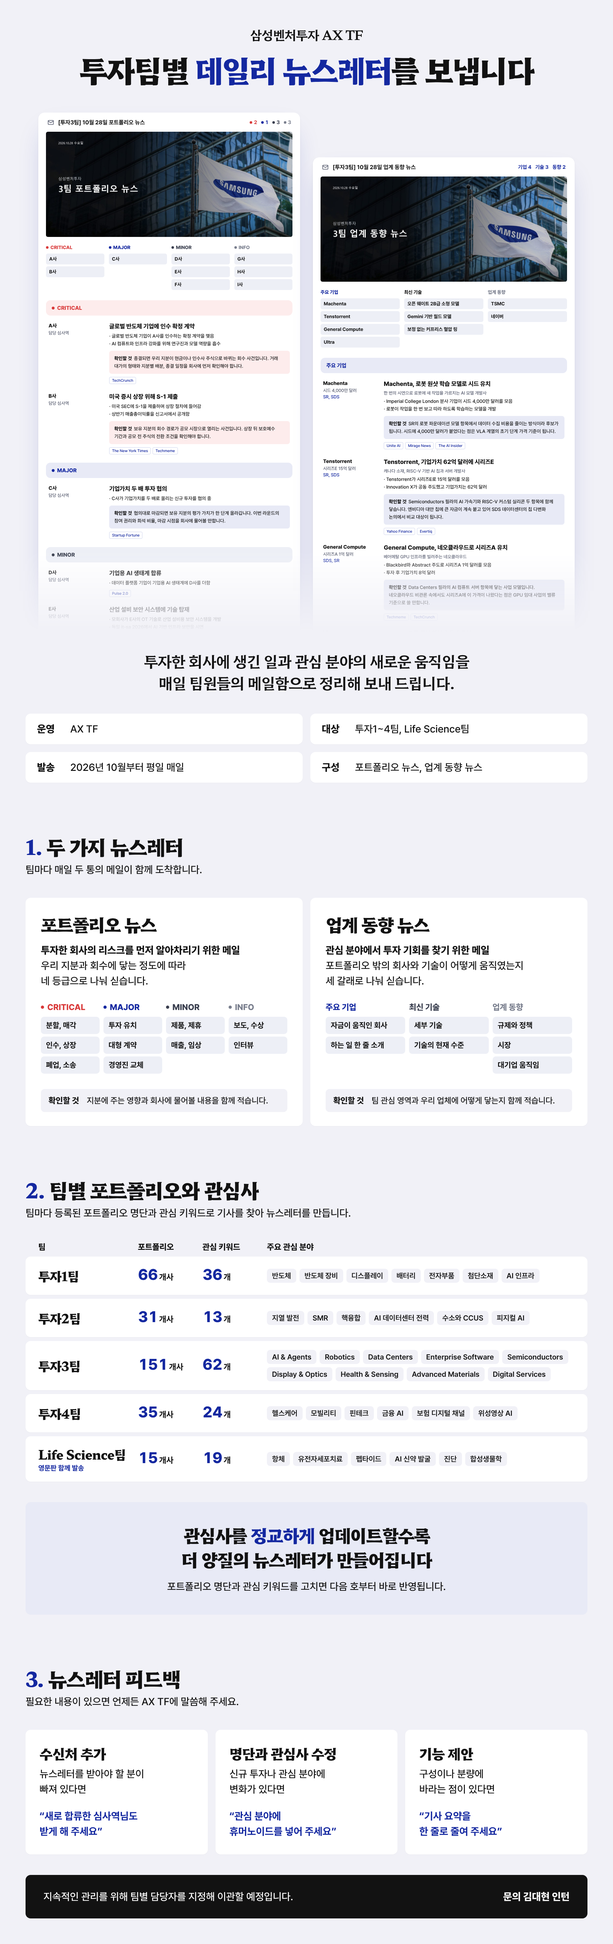
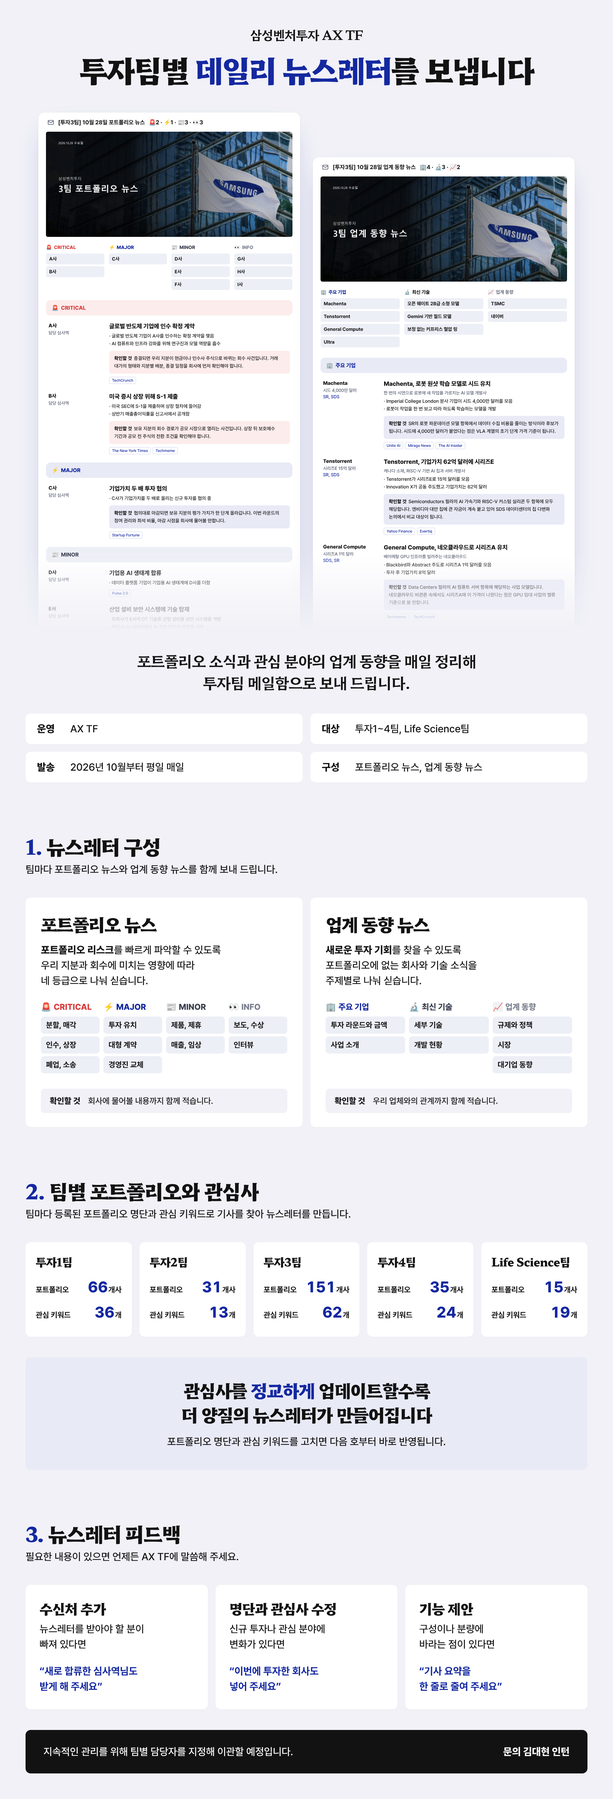
newsletter-notice: 등급·절 아이콘을 메일 제목의 이모지로 바꾸고 문구 정리
- 메일 제목과 차례, 밴드, 1장 타일에 🚨⚡📰👀 와 🏢🔬📈 를 그대로 쓴다
- 팀별 관심 분야 목록과 영문판 표기를 빼고 팀별 수치만 남긴다
- 닿다, 세 갈래, 움직임 같은 표현을 걷어내고 소제목을 개수 없는 명사로 바꾼다

Claude-Session: https://claude.ai/code/session_01YSjo2N4gvMJ1LtkTYgDKfT

diff --git a/ax-tf/newsletter-notice/notice.html b/ax-tf/newsletter-notice/notice.html
@@ -11,7 +11,8 @@
 @font-face{font-family:Pretendard;font-weight:800;src:url(../skill-contest-poster/fonts/Pretendard-ExtraBold.woff2) format('woff2')}
 
 /* 공모전 포스터와 같은 토큰. 1920 폭 세로 공지 한 장
-   히어로(메일 두 통) → 1. 두 가지 뉴스레터 → 2. 팀별 포트폴리오와 관심사 → 3. 뉴스레터 피드백 */
+   히어로(메일 두 통과 개요) → 1. 뉴스레터 구성 → 2. 팀별 포트폴리오와 관심사 → 3. 뉴스레터 피드백
+   등급과 절 아이콘은 실제 메일 제목에 쓰는 이모지를 그대로 쓴다 */
 :root {
   --paper: #F1F1F7; --paper-2: #E4E5EE; --paper-3: #D6D8E4;
   --ink: #121212; --mute: #565B6E;
@@ -28,7 +29,7 @@
   --major: #1428A0; --major-soft: #E8EAF6;
   --minor: #3A3F4F; --minor-soft: #EDEFF6;
   --info: #7A7F8E; --info-soft: #F4F5F9;
-  --font: Pretendard, "Apple SD Gothic Neo", "Malgun Gothic", sans-serif;
+  --font: Pretendard, "Apple SD Gothic Neo", "Malgun Gothic", "Segoe UI Emoji", "Noto Color Emoji", sans-serif;
   --display: 'Hahmlet Variable', var(--font);
 }
 * { box-sizing: border-box; margin: 0; padding: 0; }
@@ -36,6 +37,7 @@ body { background: #CFD1DB; font-family: var(--font); color: var(--ink); -webkit
   font-size: var(--t-body); line-height: var(--l-body); word-break: keep-all; }
 b { font-weight: 800; }
 svg { display: block; }
+.em { font-family: "Segoe UI Emoji", "Noto Color Emoji", "Apple Color Emoji", sans-serif; font-weight: 400; }
 #poster { width: 1920px; margin: 0 auto; background: var(--paper); }
 .s { padding: var(--pad); display: flex; flex-direction: column; gap: var(--gap-lg); }
 .head { display: flex; flex-direction: column; gap: var(--gap-xs); }
@@ -63,20 +65,15 @@ svg { display: block; }
 
 /* ---------- 메일 화면 재현 ---------- */
 .mail { background: var(--white); border-radius: 20px; box-shadow: 0 40px 80px -30px rgba(20,40,160,.28), 0 2px 6px rgba(18,18,18,.06); padding: 18px 24px 32px; font-size: 19px; line-height: 28px; }
-.mail .subj { display: flex; align-items: center; gap: 12px; padding: 0 4px 16px; font-size: 18px; line-height: 26px; font-weight: 700; }
+.mail .subj { display: flex; align-items: center; gap: 12px; padding: 0 4px 16px; font-size: 18px; line-height: 26px; font-weight: 700; white-space: nowrap; }
 .mail .subj svg { width: 22px; height: 22px; color: var(--mute); flex: none; }
-.mail .subj .cnt { margin-left: auto; display: flex; gap: 12px; font-size: 16px; font-weight: 700; font-variant-numeric: tabular-nums; }
-.mail .subj .cnt span { display: flex; align-items: center; gap: 5px; }
-.mail .subj .cnt i { width: 8px; height: 8px; border-radius: 50%; background: currentColor; }
 .mail .mh { display: block; width: 100%; border-radius: 6px; }
 .mail .toc { display: grid; gap: 14px; margin: 22px 0 26px; }
 .mail .toc.g4 { grid-template-columns: repeat(4, 1fr); }
 .mail .toc.g3 { grid-template-columns: repeat(3, 1fr); }
 .mail .toc .tl { font-size: 15px; line-height: 22px; font-weight: 800; margin-bottom: 8px; display: flex; align-items: center; gap: 6px; }
-.mail .toc .tl i { width: 8px; height: 8px; border-radius: 50%; background: currentColor; }
 .mail .toc .ti { font-size: 15px; line-height: 22px; font-weight: 700; border-radius: 6px; padding: 6px 10px; margin-bottom: 6px; background: var(--minor-soft); white-space: nowrap; overflow: hidden; text-overflow: ellipsis; }
 .mail .band { border-radius: 14px; padding: 12px 18px; font-size: 17px; line-height: 24px; font-weight: 800; margin: 6px 0 20px; display: flex; align-items: center; gap: 8px; }
-.mail .band i { width: 9px; height: 9px; border-radius: 50%; background: currentColor; }
 .mail .item { display: grid; grid-template-columns: 170px 1fr; column-gap: 20px; margin: 0 8px 26px; }
 .mail .item .who b { display: block; font-size: 16px; line-height: 24px; }
 .mail .item .who span { display: block; font-size: 14px; line-height: 20px; color: var(--mute); }
@@ -94,33 +91,29 @@ svg { display: block; }
 .c-minor { color: var(--minor); } .bg-minor { background: var(--minor-soft); }
 .c-info { color: var(--info); } .bg-info { background: var(--info-soft); }
 
-/* ---------- 1. 두 가지 뉴스레터 ---------- */
+/* ---------- 1. 뉴스레터 구성 ---------- */
 /* 카드 안의 타일은 메일 차례와 같은 모양이다. 읽는 사람이 메일에서 본 것을 그대로 알아보게 한다 */
 .kinds { display: grid; grid-template-columns: 1fr 1fr; gap: var(--gap-sm); }
 .kind { background: var(--white); border-radius: var(--r-card); box-shadow: var(--shadow); padding: 48px 48px 44px; display: flex; flex-direction: column; }
 .kind .kt { font-family: var(--display); font-size: 56px; line-height: 68px; font-weight: 800; letter-spacing: -.04em; }
-.kind .kp { margin-top: var(--gap-sm); font-size: var(--t-body); line-height: var(--l-body); font-weight: 800; }
-.kind .kd { font-size: var(--t-body); line-height: var(--l-body); }
+.kind .kd { margin-top: var(--gap-sm); font-size: var(--t-body); line-height: var(--l-body); }
 .kind .tiles { display: grid; gap: var(--gap-xs); margin: var(--gap) 0; align-items: start; }
 .kind .tiles.g4 { grid-template-columns: repeat(4, 1fr); }
 .kind .tiles.g3 { grid-template-columns: repeat(3, 1fr); }
-.kind .tiles .tl { font-size: var(--t-cap); line-height: var(--l-cap); font-weight: 800; margin-bottom: var(--gap-xs); display: flex; align-items: center; gap: 10px; white-space: nowrap; }
-.kind .tiles .tl i { width: 10px; height: 10px; border-radius: 50%; background: currentColor; flex: none; }
+.kind .tiles .tl { font-size: var(--t-cap); line-height: var(--l-cap); font-weight: 800; margin-bottom: var(--gap-xs); display: flex; align-items: center; gap: 8px; white-space: nowrap; }
 .kind .tiles .ti { font-size: 24px; line-height: 34px; font-weight: 700; border-radius: 10px; padding: 10px 16px; margin-bottom: 8px; background: var(--minor-soft); }
-.kind .chk { margin-top: auto; display: flex; align-items: center; gap: var(--gap-sm); border-radius: var(--r-ctl); background: var(--paper); padding: 18px 24px; font-size: var(--t-cap); line-height: var(--l-cap); }
+.kind .chk { margin-top: auto; display: flex; align-items: baseline; gap: var(--gap-sm); border-radius: var(--r-ctl); background: var(--paper); padding: 20px 28px; font-size: var(--t-cap); line-height: var(--l-cap); }
 .kind .chk b { flex: none; }
 
 /* ---------- 2. 팀별 포트폴리오와 관심사 ---------- */
-.teams { display: flex; flex-direction: column; gap: var(--gap-xs); }
-.teams .tr { display: grid; grid-template-columns: 280px 170px 170px 1fr; column-gap: 32px; align-items: center; }
-.teams .th { padding: 0 40px; font-size: var(--t-cap); line-height: var(--l-cap); font-weight: 800; }
-.teams .row { background: var(--white); border-radius: var(--r-card); box-shadow: var(--shadow); padding: 28px 40px; }
-.teams .tn { font-family: var(--display); font-size: var(--t-h2); line-height: var(--l-h2); font-weight: 800; letter-spacing: -.03em; white-space: nowrap; }
-.teams .tn small { display: block; font-family: var(--font); font-size: 22px; line-height: 30px; font-weight: 700; color: var(--acc); letter-spacing: 0; }
-.teams .num { font-size: 48px; line-height: 56px; font-weight: 800; color: var(--acc); font-variant-numeric: tabular-nums; letter-spacing: -.02em; }
-.teams .num small { font-size: var(--t-cap); color: var(--ink); font-weight: 700; margin-left: 4px; letter-spacing: 0; }
-.teams .chips { display: flex; flex-wrap: wrap; gap: 10px; }
-.teams .chips span { font-size: 23px; line-height: 32px; font-weight: 600; background: var(--paper); border-radius: 10px; padding: 6px 16px; }
+.teams { display: grid; grid-template-columns: repeat(5, 1fr); gap: var(--gap-sm); }
+.teams > div { background: var(--white); border-radius: var(--r-card); box-shadow: var(--shadow); padding: 36px 32px 40px; display: flex; flex-direction: column; gap: 28px; }
+.teams .tn { font-family: var(--display); font-size: 36px; line-height: 48px; font-weight: 800; letter-spacing: -.03em; white-space: nowrap; }
+.teams .st { display: flex; flex-direction: column; gap: 14px; }
+.teams .st > div { display: flex; justify-content: space-between; align-items: baseline; }
+.teams .num { order: 2; font-size: 48px; line-height: 56px; font-weight: 800; color: var(--acc); font-variant-numeric: tabular-nums; letter-spacing: -.02em; white-space: nowrap; }
+.teams .num small { font-size: 24px; color: var(--ink); font-weight: 700; margin-left: 2px; letter-spacing: 0; }
+.teams .lb { order: 1; font-size: 24px; line-height: 34px; font-weight: 700; }
 .better { background: var(--acc-soft); border-radius: var(--r-card); padding: 64px 80px; text-align: center; display: flex; flex-direction: column; gap: var(--gap-sm); }
 .better .bt { font-family: var(--display); font-size: 56px; line-height: 76px; font-weight: 800; letter-spacing: -.04em; }
 .better .bt em { font-style: normal; color: var(--acc); }
@@ -148,16 +141,15 @@ svg { display: block; }
     </div>
     <div class="mails">
       <div class="mail m1">
-        <div class="subj"><svg><use href="#i-mail"/></svg>[투자3팀] 10월 28일 포트폴리오 뉴스
-          <span class="cnt"><span class="c-crit"><i></i>2</span><span class="c-major"><i></i>1</span><span class="c-minor"><i></i>3</span><span class="c-info"><i></i>3</span></span></div>
+        <div class="subj"><svg><use href="#i-mail"/></svg>[투자3팀] 10월 28일 포트폴리오 뉴스 <span><span class="em">🚨</span>2 · <span class="em">⚡</span>1 · <span class="em">📰</span>3 · <span class="em">👀</span>3</span></div>
         <img class="mh" src="header-portfolio.jpg" alt="">
         <div class="toc g4">
-          <div><div class="tl c-crit"><i></i>CRITICAL</div><div class="ti bg-crit">A사</div><div class="ti bg-crit">B사</div></div>
-          <div><div class="tl c-major"><i></i>MAJOR</div><div class="ti bg-major">C사</div></div>
-          <div><div class="tl c-minor"><i></i>MINOR</div><div class="ti">D사</div><div class="ti">E사</div><div class="ti">F사</div></div>
-          <div><div class="tl c-info"><i></i>INFO</div><div class="ti bg-info">G사</div><div class="ti bg-info">H사</div><div class="ti bg-info">I사</div></div>
+          <div><div class="tl c-crit"><span class="em">🚨</span>CRITICAL</div><div class="ti bg-crit">A사</div><div class="ti bg-crit">B사</div></div>
+          <div><div class="tl c-major"><span class="em">⚡</span>MAJOR</div><div class="ti bg-major">C사</div></div>
+          <div><div class="tl c-minor"><span class="em">📰</span>MINOR</div><div class="ti">D사</div><div class="ti">E사</div><div class="ti">F사</div></div>
+          <div><div class="tl c-info"><span class="em">👀</span>INFO</div><div class="ti bg-info">G사</div><div class="ti bg-info">H사</div><div class="ti bg-info">I사</div></div>
         </div>
-        <div class="band bg-crit c-crit"><i></i>CRITICAL</div>
+        <div class="band bg-crit c-crit"><span class="em">🚨</span>CRITICAL</div>
         <div class="item">
           <div class="who"><b>A사</b><span>담당 심사역</span></div>
           <div>
@@ -176,7 +168,7 @@ svg { display: block; }
             <div class="tags"><span>The New York Times</span><span>Techmeme</span></div>
           </div>
         </div>
-        <div class="band bg-major c-major"><i></i>MAJOR</div>
+        <div class="band bg-major c-major"><span class="em">⚡</span>MAJOR</div>
         <div class="item">
           <div class="who"><b>C사</b><span>담당 심사역</span></div>
           <div>
@@ -186,7 +178,7 @@ svg { display: block; }
             <div class="tags"><span>Startup Fortune</span></div>
           </div>
         </div>
-        <div class="band bg-minor c-minor"><i></i>MINOR</div>
+        <div class="band bg-minor c-minor"><span class="em">📰</span>MINOR</div>
         <div class="item">
           <div class="who"><b>D사</b><span>담당 심사역</span></div>
           <div>
@@ -206,15 +198,14 @@ svg { display: block; }
       </div>
 
       <div class="mail m2">
-        <div class="subj"><svg><use href="#i-mail"/></svg>[투자3팀] 10월 28일 업계 동향 뉴스
-          <span class="cnt c-major"><span>기업 4</span><span>기술 3</span><span>동향 2</span></span></div>
+        <div class="subj"><svg><use href="#i-mail"/></svg>[투자3팀] 10월 28일 업계 동향 뉴스 <span><span class="em">🏢</span>4 · <span class="em">🔬</span>3 · <span class="em">📈</span>2</span></div>
         <img class="mh" src="header-industry.jpg" alt="">
         <div class="toc g3">
-          <div><div class="tl c-major">주요 기업</div><div class="ti bg-major">Machenta</div><div class="ti bg-major">Tenstorrent</div><div class="ti bg-major">General Compute</div><div class="ti bg-major">Ultra</div></div>
-          <div><div class="tl">최신 기술</div><div class="ti bg-major">오픈 웨이트 2B급 소형 모델</div><div class="ti bg-major">Gemini 기반 월드 모델</div><div class="ti bg-major">보정 없는 커프리스 혈압 링</div></div>
-          <div><div class="tl c-info">업계 동향</div><div class="ti bg-info">TSMC</div><div class="ti bg-info">네이버</div></div>
+          <div><div class="tl c-major"><span class="em">🏢</span>주요 기업</div><div class="ti bg-major">Machenta</div><div class="ti bg-major">Tenstorrent</div><div class="ti bg-major">General Compute</div><div class="ti bg-major">Ultra</div></div>
+          <div><div class="tl"><span class="em">🔬</span>최신 기술</div><div class="ti bg-major">오픈 웨이트 2B급 소형 모델</div><div class="ti bg-major">Gemini 기반 월드 모델</div><div class="ti bg-major">보정 없는 커프리스 혈압 링</div></div>
+          <div><div class="tl c-info"><span class="em">📈</span>업계 동향</div><div class="ti bg-info">TSMC</div><div class="ti bg-info">네이버</div></div>
         </div>
-        <div class="band bg-major c-major">주요 기업</div>
+        <div class="band bg-major c-major"><span class="em">🏢</span>주요 기업</div>
         <div class="item">
           <div class="who"><b>Machenta</b><span>시드 4,000만 달러</span><span class="bu">SR, SDS</span></div>
           <div>
@@ -231,7 +222,7 @@ svg { display: block; }
             <div class="hl">Tenstorrent, 기업가치 62억 달러에 시리즈E</div>
             <div class="sub">캐나다 소재, RISC-V 기반 AI 칩과 서버 개발사</div>
             <ul><li>Tenstorrent가 시리즈E로 15억 달러를 모음</li><li>Innovation X가 공동 주도했고 기업가치는 62억 달러</li></ul>
-            <div class="chk bg-major"><b>확인할 것</b>Semiconductors 필라의 AI 가속기와 RISC-V 커스텀 실리콘 두 항목에 함께 닿습니다. 엔비디아 대안 칩에 큰 자금이 계속 붙고 있어 SDS 데이터센터의 칩 다변화 논의에서 비교 대상이 됩니다.</div>
+            <div class="chk bg-major"><b>확인할 것</b>Semiconductors 필라의 AI 가속기와 RISC-V 커스텀 실리콘 두 항목에 모두 해당합니다. 엔비디아 대안 칩에 큰 자금이 계속 붙고 있어 SDS 데이터센터의 칩 다변화 논의에서 비교 대상이 됩니다.</div>
             <div class="tags"><span>Yahoo Finance</span><span>Evertiq</span></div>
           </div>
         </div>
@@ -241,7 +232,7 @@ svg { display: block; }
             <div class="hl">General Compute, 네오클라우드로 시리즈A 유치</div>
             <div class="sub">베어메탈 GPU 인프라를 빌려주는 네오클라우드</div>
             <ul><li>Blackbird와 Abstract 주도로 시리즈A 1억 달러를 모음</li><li>투자 후 기업가치 8억 달러</li></ul>
-            <div class="chk bg-major"><b>확인할 것</b>Data Centers 필라의 AI 컴퓨트 서버 항목에 닿는 사업 모델입니다. 네오클라우드 비관론 속에서도 시리즈A에 이 가격이 나왔다는 점은 GPU 임대 사업의 밸류 기준으로 쓸 만합니다.</div>
+            <div class="chk bg-major"><b>확인할 것</b>Data Centers 필라의 AI 컴퓨트 서버 항목에 해당하는 사업 모델입니다. 네오클라우드 비관론 속에서도 시리즈A에 이 가격이 나왔다는 점은 GPU 임대 사업의 밸류 기준으로 쓸 만합니다.</div>
             <div class="tags"><span>Techmeme</span><span>TechCrunch</span></div>
           </div>
         </div>
@@ -251,12 +242,12 @@ svg { display: block; }
             <div class="hl">Ultra, AI 포장 로봇 확산에 투자 유치</div>
             <div class="sub">물류창고용 AI 포장 로봇 개발사</div>
             <ul><li>Ultra가 AI 포장 로봇을 더 많은 물류창고에 넣기 위해 5,000만 달러를 모음</li></ul>
-            <div class="chk bg-major"><b>확인할 것</b>Robotics &amp; Physical AI 필라의 AMR 물류 상하차 자동화 항목에 바로 닿습니다.</div>
+            <div class="chk bg-major"><b>확인할 것</b>Robotics &amp; Physical AI 필라의 AMR 물류 상하차 자동화 항목에 바로 해당합니다.</div>
           </div>
         </div>
       </div>
     </div>
-    <div class="hero-lead">투자한 회사에 생긴 일과 관심 분야의 새로운 움직임을<br>매일 팀원들의 메일함으로 정리해 보내 드립니다.</div>
+    <div class="hero-lead">포트폴리오 소식과 관심 분야의 업계 동향을 매일 정리해<br>투자팀 메일함으로 보내 드립니다.</div>
     <div class="facts">
       <div><div class="l">운영</div><div>AX TF</div></div>
       <div><div class="l">대상</div><div>투자1~4팀, Life Science팀</div></div>
@@ -265,35 +256,33 @@ svg { display: block; }
     </div>
   </section>
 
-  <!-- 1. 두 가지 뉴스레터 -->
+  <!-- 1. 뉴스레터 구성 -->
   <section class="s">
     <div class="head">
-      <div class="h"><span class="no">1.</span> 두 가지 뉴스레터</div>
-      <div class="lead">팀마다 매일 두 통의 메일이 함께 도착합니다.</div>
+      <div class="h"><span class="no">1.</span> 뉴스레터 구성</div>
+      <div class="lead">팀마다 포트폴리오 뉴스와 업계 동향 뉴스를 함께 보내 드립니다.</div>
     </div>
     <div class="kinds">
       <div class="kind">
         <div class="kt">포트폴리오 뉴스</div>
-        <div class="kp">투자한 회사의 리스크를 먼저 알아차리기 위한 메일</div>
-        <div class="kd">우리 지분과 회수에 닿는 정도에 따라<br>네 등급으로 나눠 싣습니다.</div>
+        <div class="kd"><b>포트폴리오 리스크</b>를 빠르게 파악할 수 있도록<br>우리 지분과 회수에 미치는 영향에 따라<br>네 등급으로 나눠 싣습니다.</div>
         <div class="tiles g4">
-          <div><div class="tl c-crit"><i></i>CRITICAL</div><div class="ti bg-crit">분할, 매각</div><div class="ti bg-crit">인수, 상장</div><div class="ti bg-crit">폐업, 소송</div></div>
-          <div><div class="tl c-major"><i></i>MAJOR</div><div class="ti bg-major">투자 유치</div><div class="ti bg-major">대형 계약</div><div class="ti bg-major">경영진 교체</div></div>
-          <div><div class="tl c-minor"><i></i>MINOR</div><div class="ti">제품, 제휴</div><div class="ti">매출, 임상</div></div>
-          <div><div class="tl c-info"><i></i>INFO</div><div class="ti bg-info">보도, 수상</div><div class="ti bg-info">인터뷰</div></div>
+          <div><div class="tl c-crit"><span class="em">🚨</span>CRITICAL</div><div class="ti bg-crit">분할, 매각</div><div class="ti bg-crit">인수, 상장</div><div class="ti bg-crit">폐업, 소송</div></div>
+          <div><div class="tl c-major"><span class="em">⚡</span>MAJOR</div><div class="ti bg-major">투자 유치</div><div class="ti bg-major">대형 계약</div><div class="ti bg-major">경영진 교체</div></div>
+          <div><div class="tl c-minor"><span class="em">📰</span>MINOR</div><div class="ti">제품, 제휴</div><div class="ti">매출, 임상</div></div>
+          <div><div class="tl c-info"><span class="em">👀</span>INFO</div><div class="ti bg-info">보도, 수상</div><div class="ti bg-info">인터뷰</div></div>
         </div>
-        <div class="chk"><b>확인할 것</b><span>지분에 주는 영향과 회사에 물어볼 내용을 함께 적습니다.</span></div>
+        <div class="chk"><b>확인할 것</b><span>회사에 물어볼 내용까지 함께 적습니다.</span></div>
       </div>
       <div class="kind">
         <div class="kt">업계 동향 뉴스</div>
-        <div class="kp">관심 분야에서 투자 기회를 찾기 위한 메일</div>
-        <div class="kd">포트폴리오 밖의 회사와 기술이 어떻게 움직였는지<br>세 갈래로 나눠 싣습니다.</div>
+        <div class="kd"><b>새로운 투자 기회</b>를 찾을 수 있도록<br>포트폴리오에 없는 회사와 기술 소식을<br>주제별로 나눠 싣습니다.</div>
         <div class="tiles g3">
-          <div><div class="tl c-major">주요 기업</div><div class="ti bg-major">자금이 움직인 회사</div><div class="ti bg-major">하는 일 한 줄 소개</div></div>
-          <div><div class="tl c-minor">최신 기술</div><div class="ti">세부 기술</div><div class="ti">기술의 현재 수준</div></div>
-          <div><div class="tl c-info">업계 동향</div><div class="ti bg-info">규제와 정책</div><div class="ti bg-info">시장</div><div class="ti bg-info">대기업 움직임</div></div>
+          <div><div class="tl c-major"><span class="em">🏢</span>주요 기업</div><div class="ti bg-major">투자 라운드와 금액</div><div class="ti bg-major">사업 소개</div></div>
+          <div><div class="tl c-minor"><span class="em">🔬</span>최신 기술</div><div class="ti">세부 기술</div><div class="ti">개발 현황</div></div>
+          <div><div class="tl c-info"><span class="em">📈</span>업계 동향</div><div class="ti bg-info">규제와 정책</div><div class="ti bg-info">시장</div><div class="ti bg-info">대기업 동향</div></div>
         </div>
-        <div class="chk"><b>확인할 것</b><span>팀 관심 영역과 우리 업체에 어떻게 닿는지 함께 적습니다.</span></div>
+        <div class="chk"><b>확인할 것</b><span>우리 업체와의 관계까지 함께 적습니다.</span></div>
       </div>
     </div>
   </section>
@@ -305,17 +294,11 @@ svg { display: block; }
       <div class="lead">팀마다 등록된 포트폴리오 명단과 관심 키워드로 기사를 찾아 뉴스레터를 만듭니다.</div>
     </div>
     <div class="teams">
-      <div class="tr th"><span>팀</span><span>포트폴리오</span><span>관심 키워드</span><span>주요 관심 분야</span></div>
-      <div class="tr row"><div class="tn">투자1팀</div><div class="num">66<small>개사</small></div><div class="num">36<small>개</small></div>
-        <div class="chips"><span>반도체</span><span>반도체 장비</span><span>디스플레이</span><span>배터리</span><span>전자부품</span><span>첨단소재</span><span>AI 인프라</span></div></div>
-      <div class="tr row"><div class="tn">투자2팀</div><div class="num">31<small>개사</small></div><div class="num">13<small>개</small></div>
-        <div class="chips"><span>지열 발전</span><span>SMR</span><span>핵융합</span><span>AI 데이터센터 전력</span><span>수소와 CCUS</span><span>피지컬 AI</span></div></div>
-      <div class="tr row"><div class="tn">투자3팀</div><div class="num">151<small>개사</small></div><div class="num">62<small>개</small></div>
-        <div class="chips"><span>AI &amp; Agents</span><span>Robotics</span><span>Data Centers</span><span>Enterprise Software</span><span>Semiconductors</span><span>Display &amp; Optics</span><span>Health &amp; Sensing</span><span>Advanced Materials</span><span>Digital Services</span></div></div>
-      <div class="tr row"><div class="tn">투자4팀</div><div class="num">35<small>개사</small></div><div class="num">24<small>개</small></div>
-        <div class="chips"><span>헬스케어</span><span>모빌리티</span><span>핀테크</span><span>금융 AI</span><span>보험 디지털 채널</span><span>위성영상 AI</span></div></div>
-      <div class="tr row"><div class="tn">Life Science팀<small>영문판 함께 발송</small></div><div class="num">15<small>개사</small></div><div class="num">19<small>개</small></div>
-        <div class="chips"><span>항체</span><span>유전자세포치료</span><span>펩타이드</span><span>AI 신약 발굴</span><span>진단</span><span>합성생물학</span></div></div>
+      <div><div class="tn">투자1팀</div><div class="st"><div><div class="num">66<small>개사</small></div><div class="lb">포트폴리오</div></div><div><div class="num">36<small>개</small></div><div class="lb">관심 키워드</div></div></div></div>
+      <div><div class="tn">투자2팀</div><div class="st"><div><div class="num">31<small>개사</small></div><div class="lb">포트폴리오</div></div><div><div class="num">13<small>개</small></div><div class="lb">관심 키워드</div></div></div></div>
+      <div><div class="tn">투자3팀</div><div class="st"><div><div class="num">151<small>개사</small></div><div class="lb">포트폴리오</div></div><div><div class="num">62<small>개</small></div><div class="lb">관심 키워드</div></div></div></div>
+      <div><div class="tn">투자4팀</div><div class="st"><div><div class="num">35<small>개사</small></div><div class="lb">포트폴리오</div></div><div><div class="num">24<small>개</small></div><div class="lb">관심 키워드</div></div></div></div>
+      <div><div class="tn">Life Science팀</div><div class="st"><div><div class="num">15<small>개사</small></div><div class="lb">포트폴리오</div></div><div><div class="num">19<small>개</small></div><div class="lb">관심 키워드</div></div></div></div>
     </div>
     <div class="better">
       <div class="bt">관심사를 <em>정교하게</em> 업데이트할수록<br>더 양질의 뉴스레터가 만들어집니다</div>
@@ -331,7 +314,7 @@ svg { display: block; }
     </div>
     <div class="fb">
       <div><div class="ft">수신처 추가</div><p>뉴스레터를 받아야 할 분이<br>빠져 있다면</p><p class="ex">“새로 합류한 심사역님도<br>받게 해 주세요”</p></div>
-      <div><div class="ft">명단과 관심사 수정</div><p>신규 투자나 관심 분야에<br>변화가 있다면</p><p class="ex">“관심 분야에<br>휴머노이드를 넣어 주세요”</p></div>
+      <div><div class="ft">명단과 관심사 수정</div><p>신규 투자나 관심 분야에<br>변화가 있다면</p><p class="ex">“이번에 투자한 회사도<br>넣어 주세요”</p></div>
       <div><div class="ft">기능 제안</div><p>구성이나 분량에<br>바라는 점이 있다면</p><p class="ex">“기사 요약을<br>한 줄로 줄여 주세요”</p></div>
     </div>
     <div class="ask">
